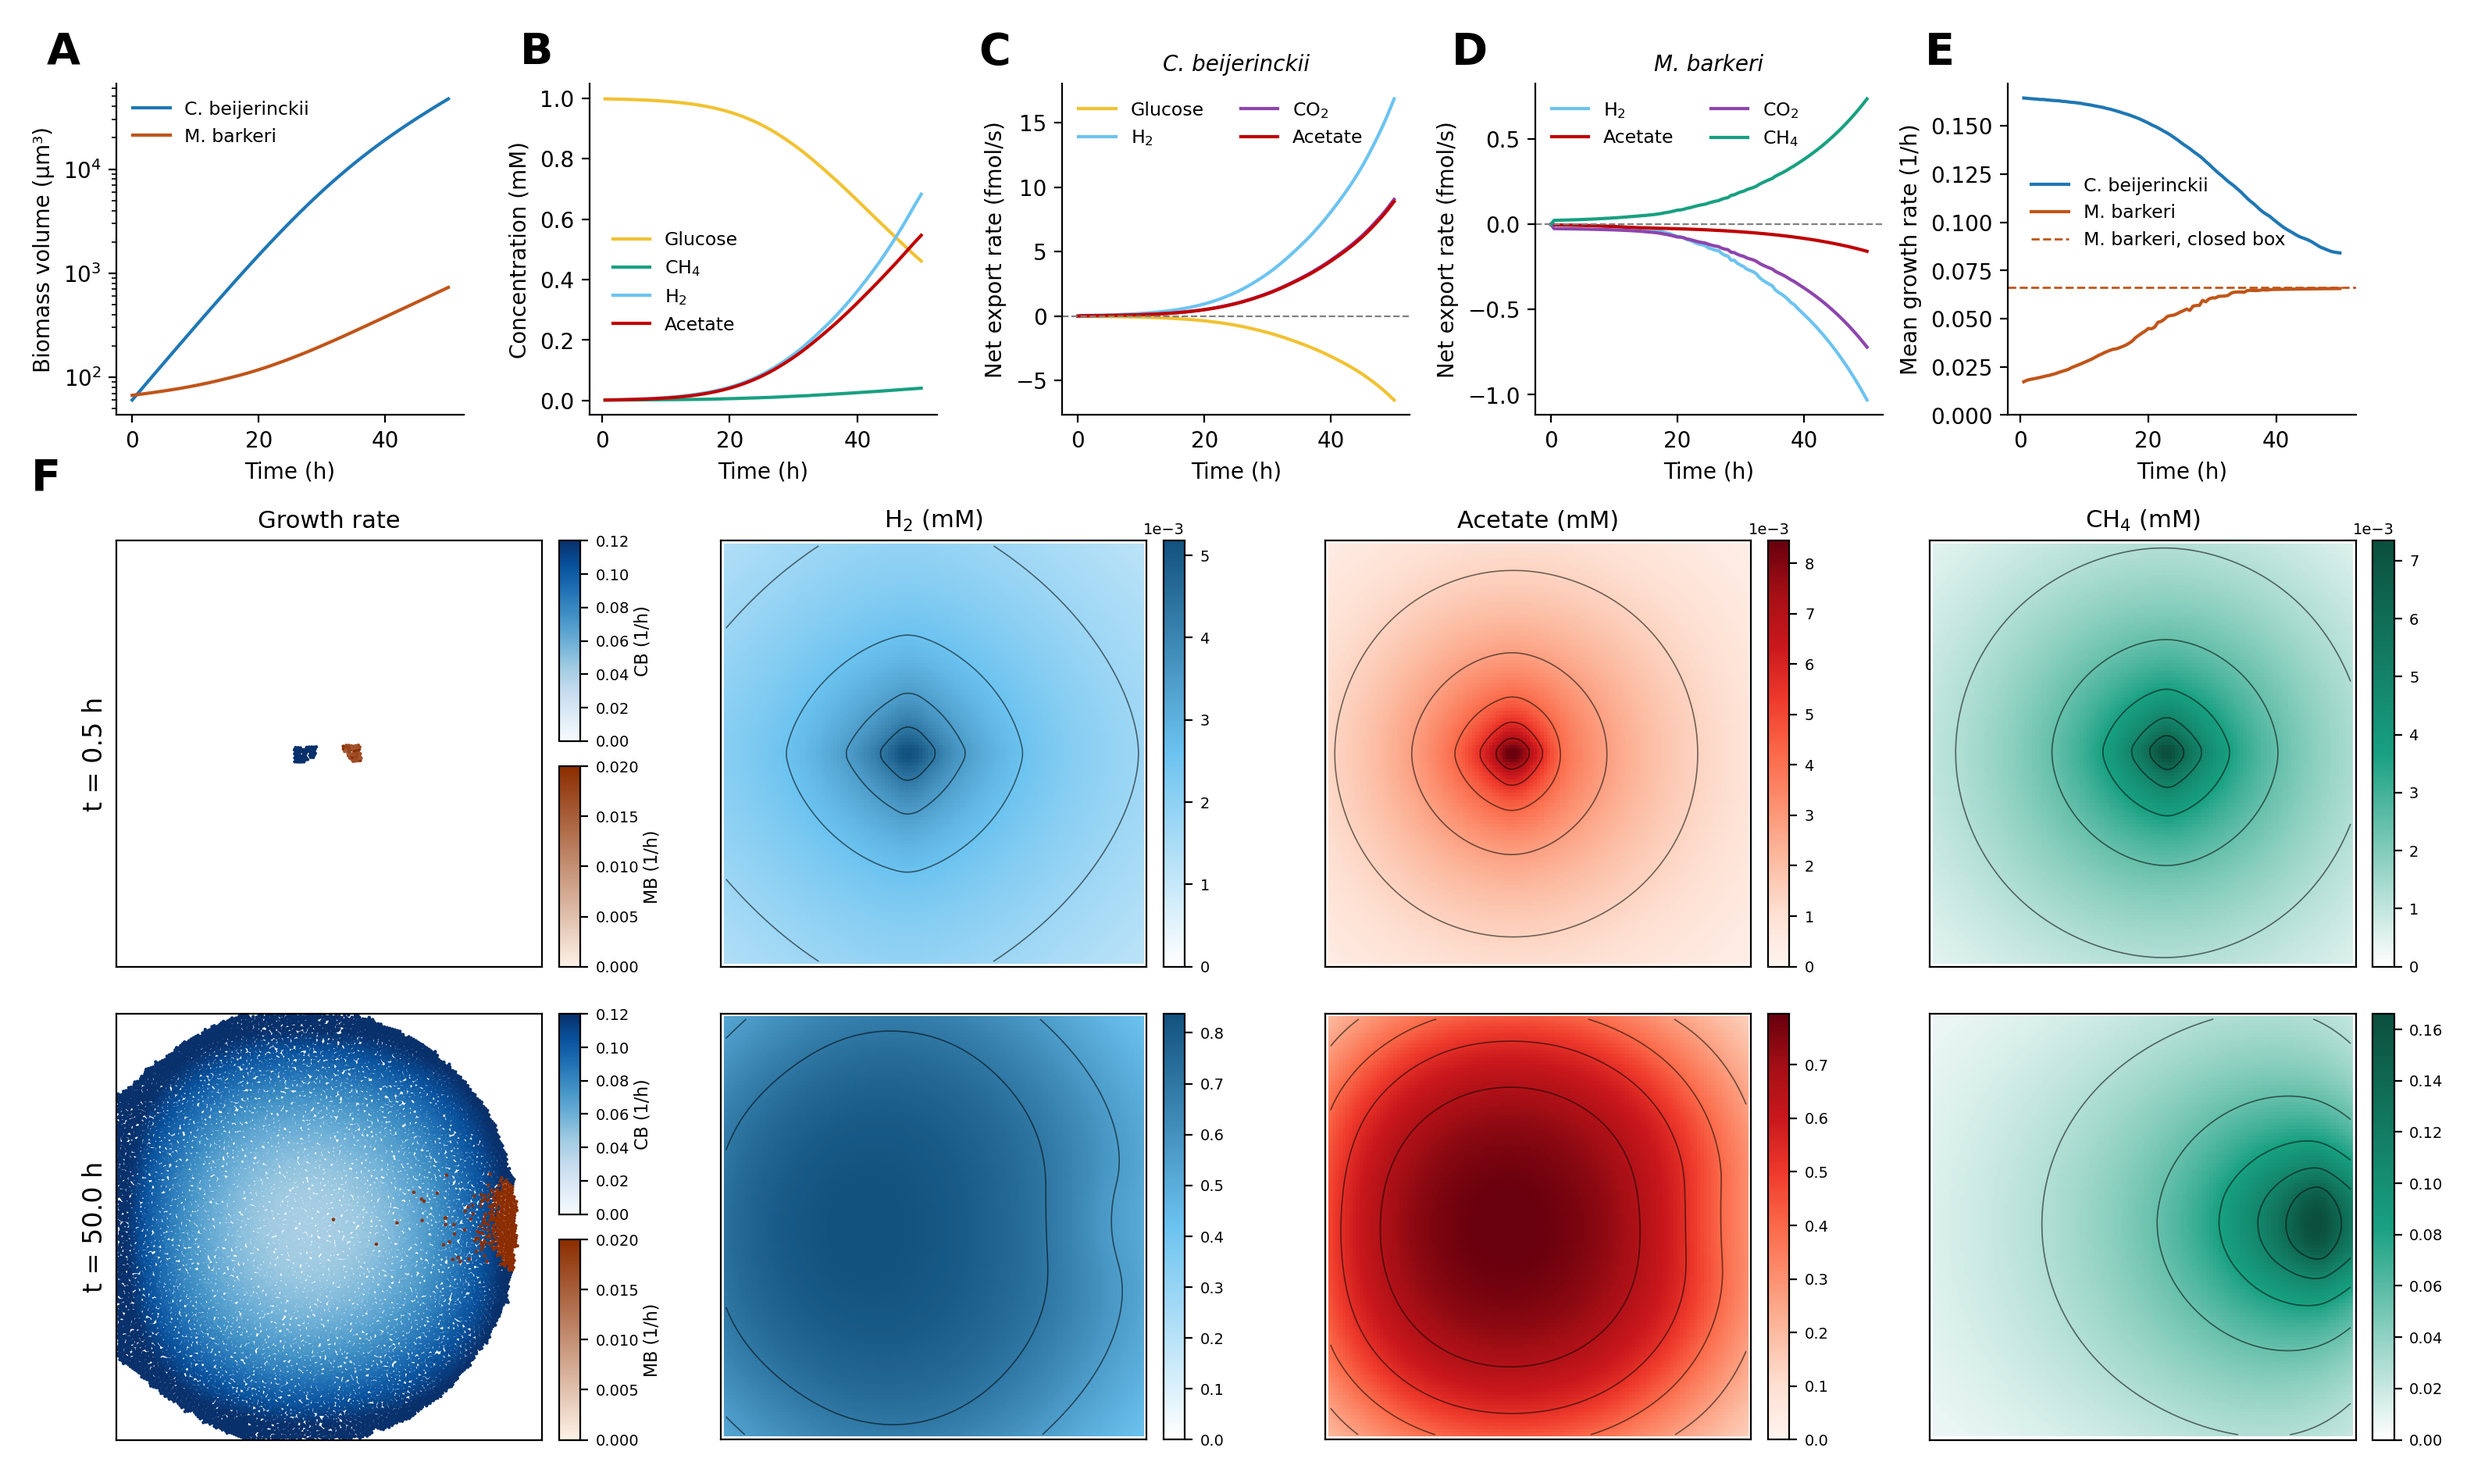
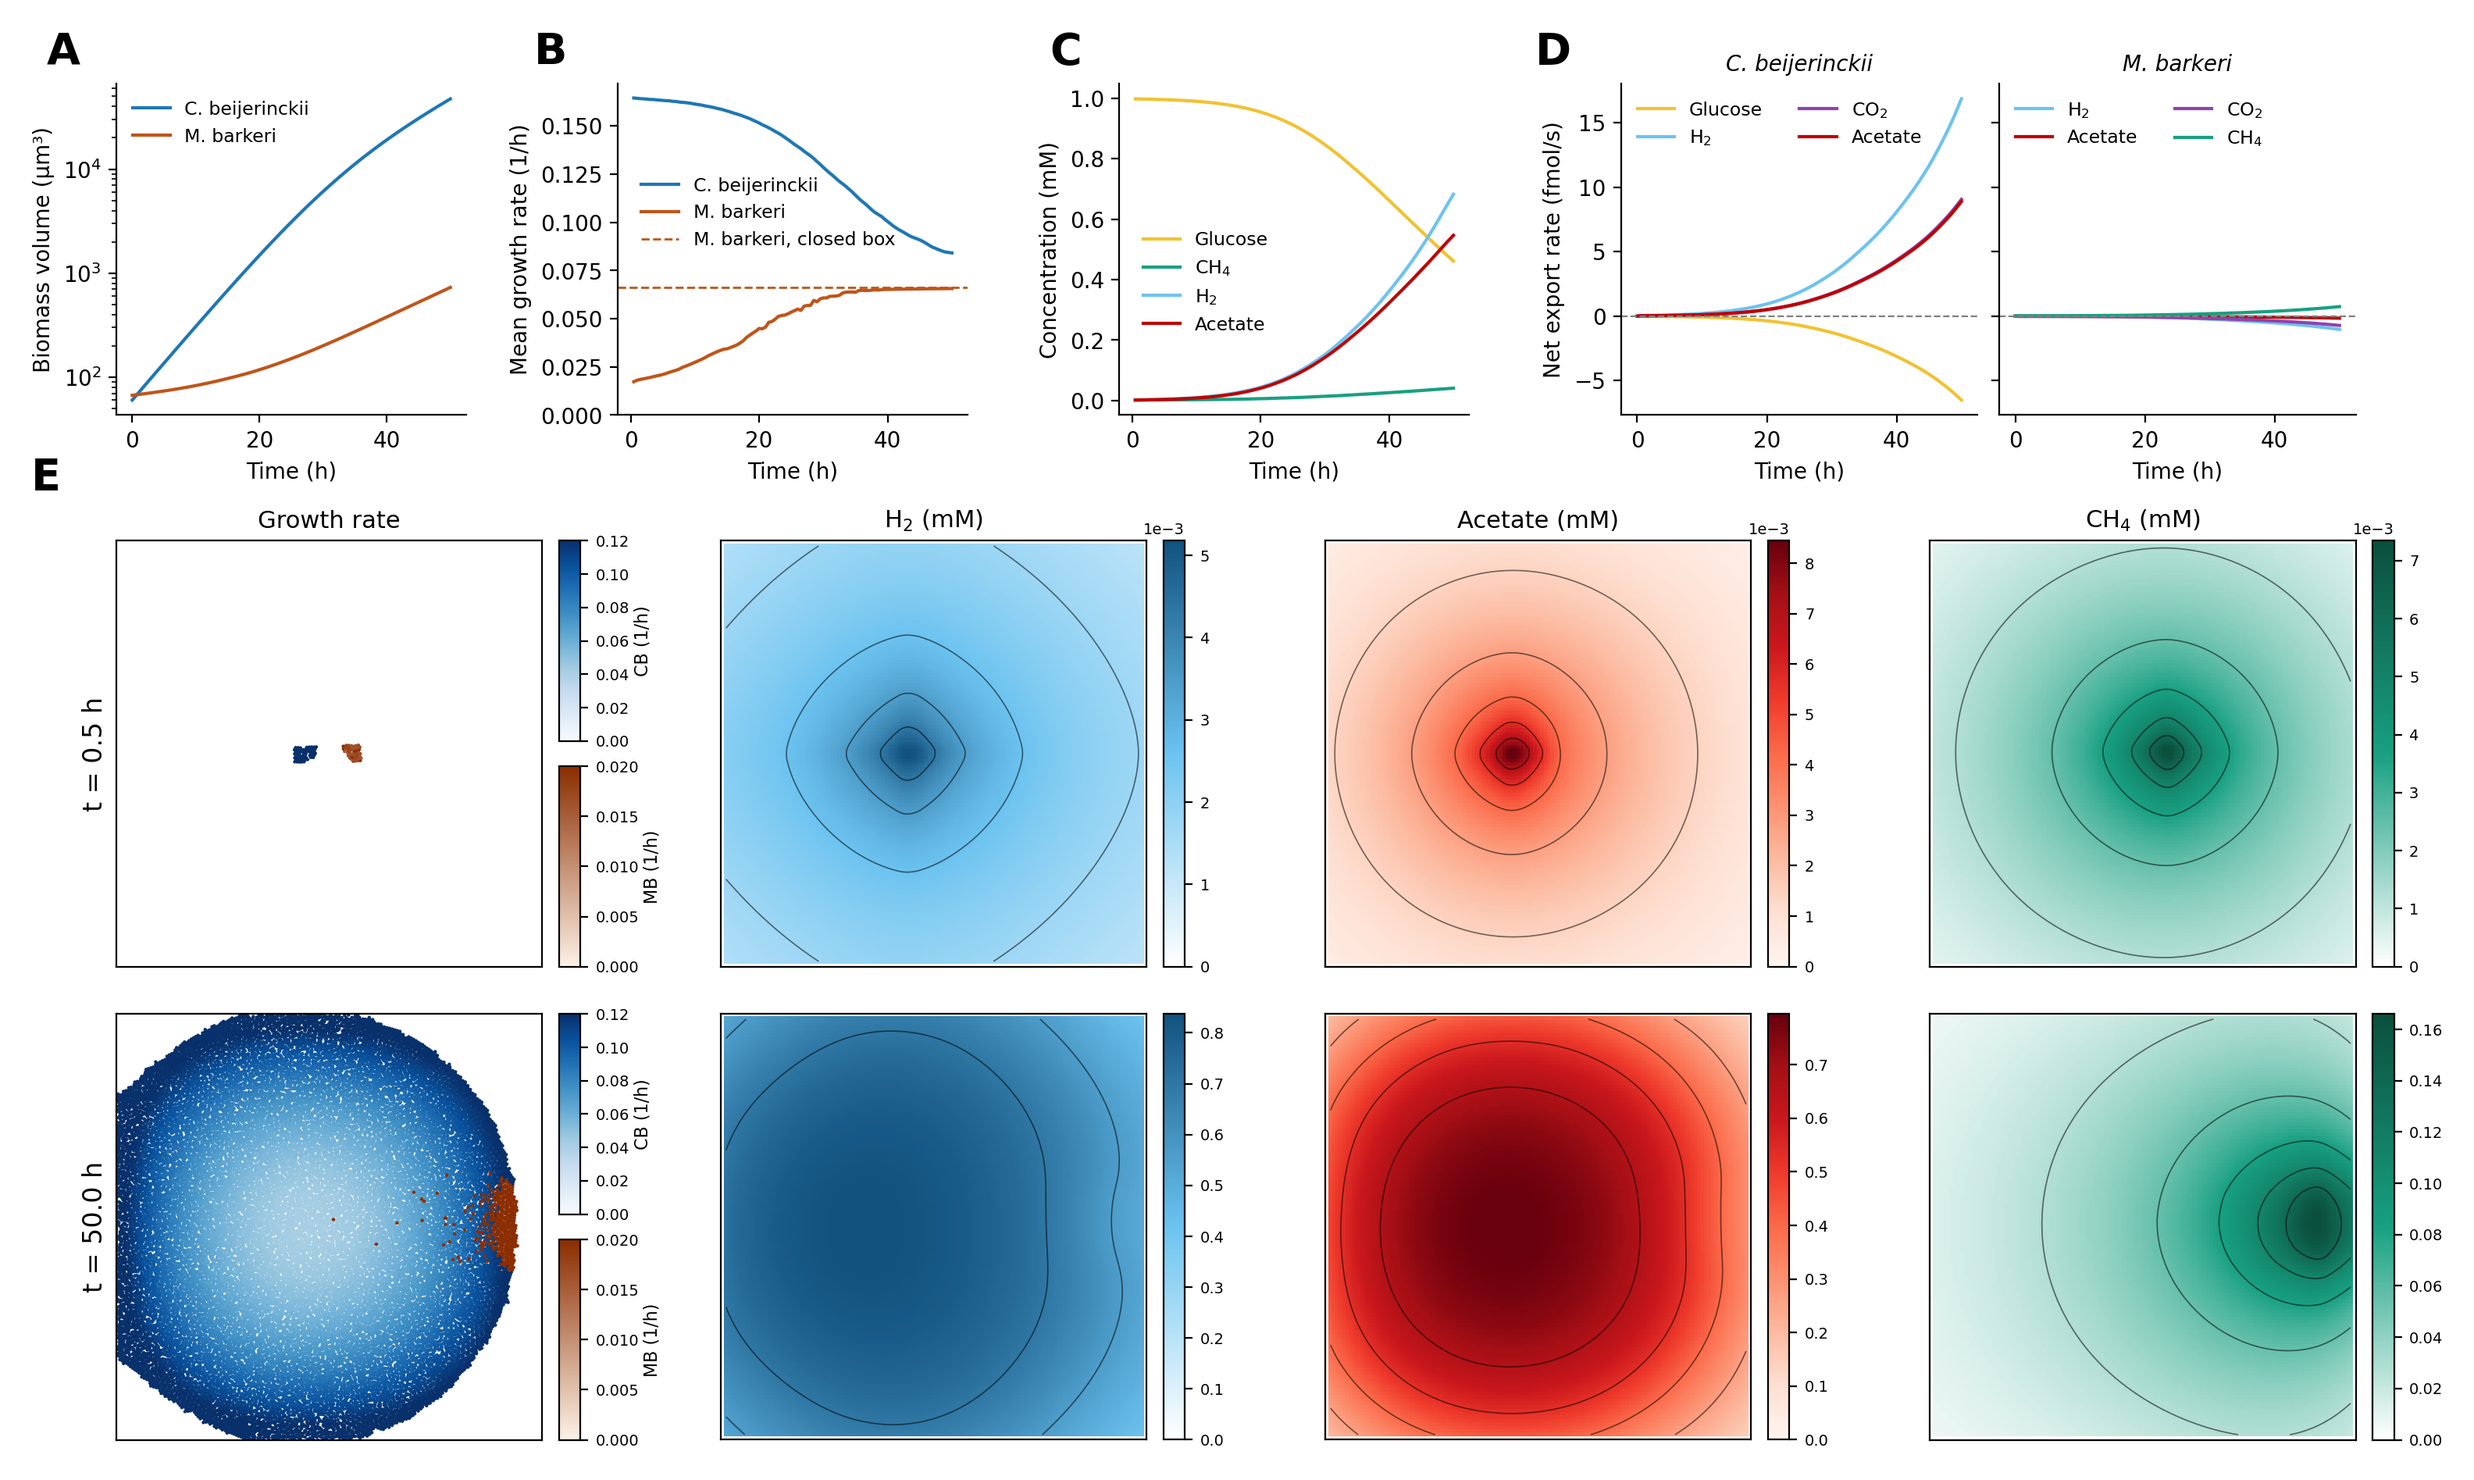
Fig. 6: growth rate next to biomass, CB and MB net exports in one panel with shared y-axis

diff --git a/usecases/crossfeeding/scripts/make_figure.py b/usecases/crossfeeding/scripts/make_figure.py
@@ -29,19 +29,22 @@ closed_mb = float(cc_[lc.index("growth_rate")][(cc_[lc.index("cell_type")] == 1)
 print("cells CB/MB at the end:", [int(((snaps[TL][4] == k) & ~snaps[TL][5]).sum()) for k in (0, 1)], "t_end %.1f h" % ts[-1], "early %g late %g min" % (TE, TL), "closed-box MB growth %.4f" % closed_mb)
 plt.rcParams.update({"font.size": 10, "axes.spines.top": False, "axes.spines.right": False})
 fig = plt.figure(figsize=(15.5, 9.4), dpi=200); og = fig.add_gridspec(2, 1, height_ratios=[0.55, 1.5], left=0.06, right=0.985, top=0.965, bottom=0.04, hspace=0.20)
-top = og[0].subgridspec(1, 5, wspace=0.36); LET = lambda q, s, x=-0.2: q.text(x, 1.06, s, transform=q.transAxes, fontsize=20, fontweight="bold")
+top = og[0].subgridspec(1, 4, wspace=0.34, width_ratios=[1, 1, 1, 2.1]); LET = lambda q, s, x=-0.2: q.text(x, 1.06, s, transform=q.transAxes, fontsize=20, fontweight="bold")
 cb_c, mb_c = "#1f77b4", "#c0551a"
 a = fig.add_subplot(top[0]); a.plot(ts, vol[:, 0], color=cb_c, label="C. beijerinckii"); a.plot(ts, vol[:, 1], color=mb_c, label="M. barkeri"); a.set_yscale("log"); a.set_ylabel("Biomass volume (µm³)"); a.set_xlabel("Time (h)"); a.legend(frameon=False, loc="upper left", fontsize=8.5); LET(a, "A")
-b = fig.add_subplot(top[1]); cc = {"glucose": SC["glucose"], "methane": SC["methane"], "H2": SC["h2"], "acetate": SC["acetate"]}
+e = fig.add_subplot(top[1]); e.plot(ts[1:], grm[1:, 0], color=cb_c, label="C. beijerinckii"); e.plot(ts[1:], grm[1:, 1], color=mb_c, label="M. barkeri"); e.axhline(closed_mb, color=mb_c, ls="--", lw=1, label="M. barkeri, closed box")
+e.set_ylabel("Mean growth rate (1/h)"); e.set_xlabel("Time (h)"); e.set_ylim(0, None); e.legend(frameon=False, fontsize=8.5, loc="center left", bbox_to_anchor=(0.02, 0.61)); LET(e, "B", -0.24)
+b = fig.add_subplot(top[2]); cc = {"glucose": SC["glucose"], "methane": SC["methane"], "H2": SC["h2"], "acetate": SC["acetate"]}
 for k, col in cc.items(): b.plot(ts[ts >= 1 / 60], np.array([d[k] for d in conc])[ts >= 1 / 60], color=col, label={"glucose": "Glucose", "methane": "CH$_4$", "H2": "H$_2$", "acetate": "Acetate"}[k])
-b.set_ylabel("Concentration (mM)"); b.set_xlabel("Time (h)"); b.legend(frameon=False, ncol=1, fontsize=8.5, loc="center left", bbox_to_anchor=(0.02, 0.40)); LET(b, "B")
+b.set_ylabel("Concentration (mM)"); b.set_xlabel("Time (h)"); b.legend(frameon=False, ncol=1, fontsize=8.5, loc="center left", bbox_to_anchor=(0.02, 0.40)); LET(b, "C")
 col = {"Glucose": SC["glucose"], "H$_2$": SC["h2"], "CO$_2$": SC["co2"], "Acetate": SC["acetate"], "CH$_4$": SC["methane"]}
-for i, (k, names, nm_, L) in enumerate(((0, ["Glucose", "H$_2$", "CO$_2$", "Acetate"], "C. beijerinckii", "C"), (1, ["H$_2$", "Acetate", "CO$_2$", "CH$_4$"], "M. barkeri", "D"))):
-    d = fig.add_subplot(top[2 + i])
-    for nm in names: d.plot(ts, [e[(k, nm)] for e in exp], color=col[nm], label=nm)
-    d.axhline(0, color="grey", ls="--", lw=0.8); d.set_ylabel("Net export rate (fmol/s)"); d.set_xlabel("Time (h)"); d.set_title(nm_, fontsize=10, style="italic"); d.legend(frameon=False, fontsize=8.5, loc="upper left", ncol=2); LET(d, L, -0.24)
-e = fig.add_subplot(top[4]); e.plot(ts[1:], grm[1:, 0], color=cb_c, label="C. beijerinckii"); e.plot(ts[1:], grm[1:, 1], color=mb_c, label="M. barkeri"); e.axhline(closed_mb, color=mb_c, ls="--", lw=1, label="M. barkeri, closed box")
-e.set_ylabel("Mean growth rate (1/h)"); e.set_xlabel("Time (h)"); e.set_ylim(0, None); e.legend(frameon=False, fontsize=8.5, loc="center left", bbox_to_anchor=(0.02, 0.61)); LET(e, "E", -0.24)
+xp = top[3].subgridspec(1, 2, wspace=0.06); dax = None
+for i, (k, names, nm_) in enumerate(((0, ["Glucose", "H$_2$", "CO$_2$", "Acetate"], "C. beijerinckii"), (1, ["H$_2$", "Acetate", "CO$_2$", "CH$_4$"], "M. barkeri"))):
+    d = fig.add_subplot(xp[i], sharey=dax); dax = dax or d
+    for nm in names: d.plot(ts, [e_[(k, nm)] for e_ in exp], color=col[nm], label=nm)
+    d.axhline(0, color="grey", ls="--", lw=0.8); d.set_xlabel("Time (h)"); d.set_title(nm_, fontsize=10, style="italic"); d.legend(frameon=False, fontsize=8.5, loc="upper left", ncol=2)
+    if i == 0: d.set_ylabel("Net export rate (fmol/s)"); LET(d, "D", -0.24)
+    else: d.tick_params(labelleft=False)
 eg = og[1].subgridspec(2, 4, hspace=0.10, wspace=0.42); cb_ = plt.cm.Blues; mb_ = LinearSegmentedColormap.from_list("o", ["#fdf1e6", "#8b2d00"])
 for j, T in enumerate((TE, TL)):
     me, x, y, gr, ty, dead = snaps[T]; xs, ys = np.unique(me[0]), np.unique(me[1]); ext = [xs[0] - (xs[1] - xs[0]) / 2, xs[-1] + (xs[1] - xs[0]) / 2] * 2; lim = ext[1]
@@ -52,7 +55,7 @@ for j, T in enumerate((TE, TL)):
     for sp in ax.spines.values(): sp.set_visible(True)
     for q, (cm, vm, lab_, y0) in enumerate(((cb_, 0.12, "CB (1/h)", 0.53), (mb_, 0.02, "MB (1/h)", 0.0))):
         cax = ax.inset_axes([1.04, y0, 0.05, 0.47]); cbx = fig.colorbar(plt.cm.ScalarMappable(norm=plt.Normalize(0, vm), cmap=cm), cax=cax); cbx.set_label(lab_, fontsize=8, labelpad=2); cbx.ax.tick_params(labelsize=7)
-    if j == 0: ax.text(-0.2, 1.12, "F", transform=ax.transAxes, fontsize=20, fontweight="bold"); ax.set_title("Growth rate", fontsize=11, pad=6)
+    if j == 0: ax.text(-0.2, 1.12, "E", transform=ax.transAxes, fontsize=20, fontweight="bold"); ax.set_title("Growth rate", fontsize=11, pad=6)
     for i, (nm, row, cm, lab_) in enumerate((("H2", 7, substrate_cmap("h2"), "H$_2$ (mM)"), ("acetate", 11, substrate_cmap("acetate"), "Acetate (mM)"), ("methane", 5, substrate_cmap("methane"), "CH$_4$ (mM)"))):
         ax = fig.add_subplot(eg[j, 1 + i]); g = np.zeros((len(ys), len(xs))); g[np.searchsorted(ys, me[1]), np.searchsorted(xs, me[0])] = me[row]
         imh = ax.imshow(g, origin="lower", extent=ext, cmap=cm, vmin=0, vmax=max(g.max(), 1e-12))
